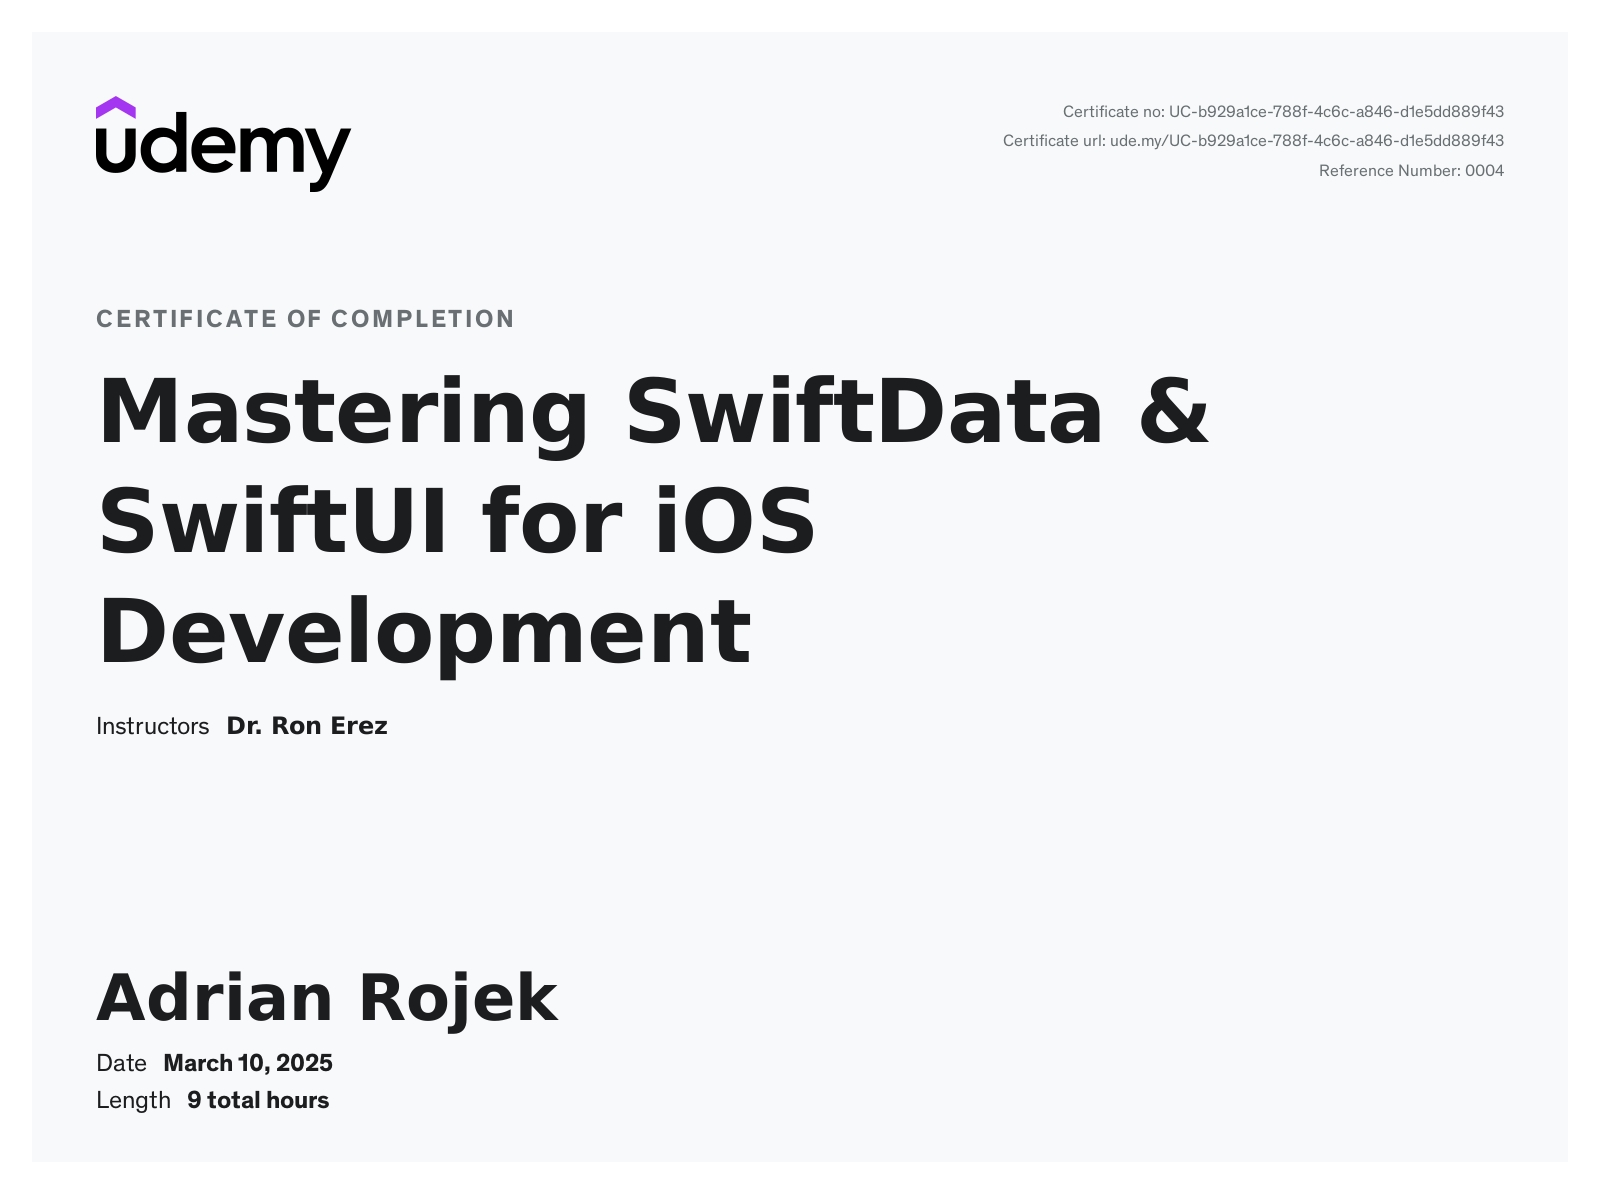
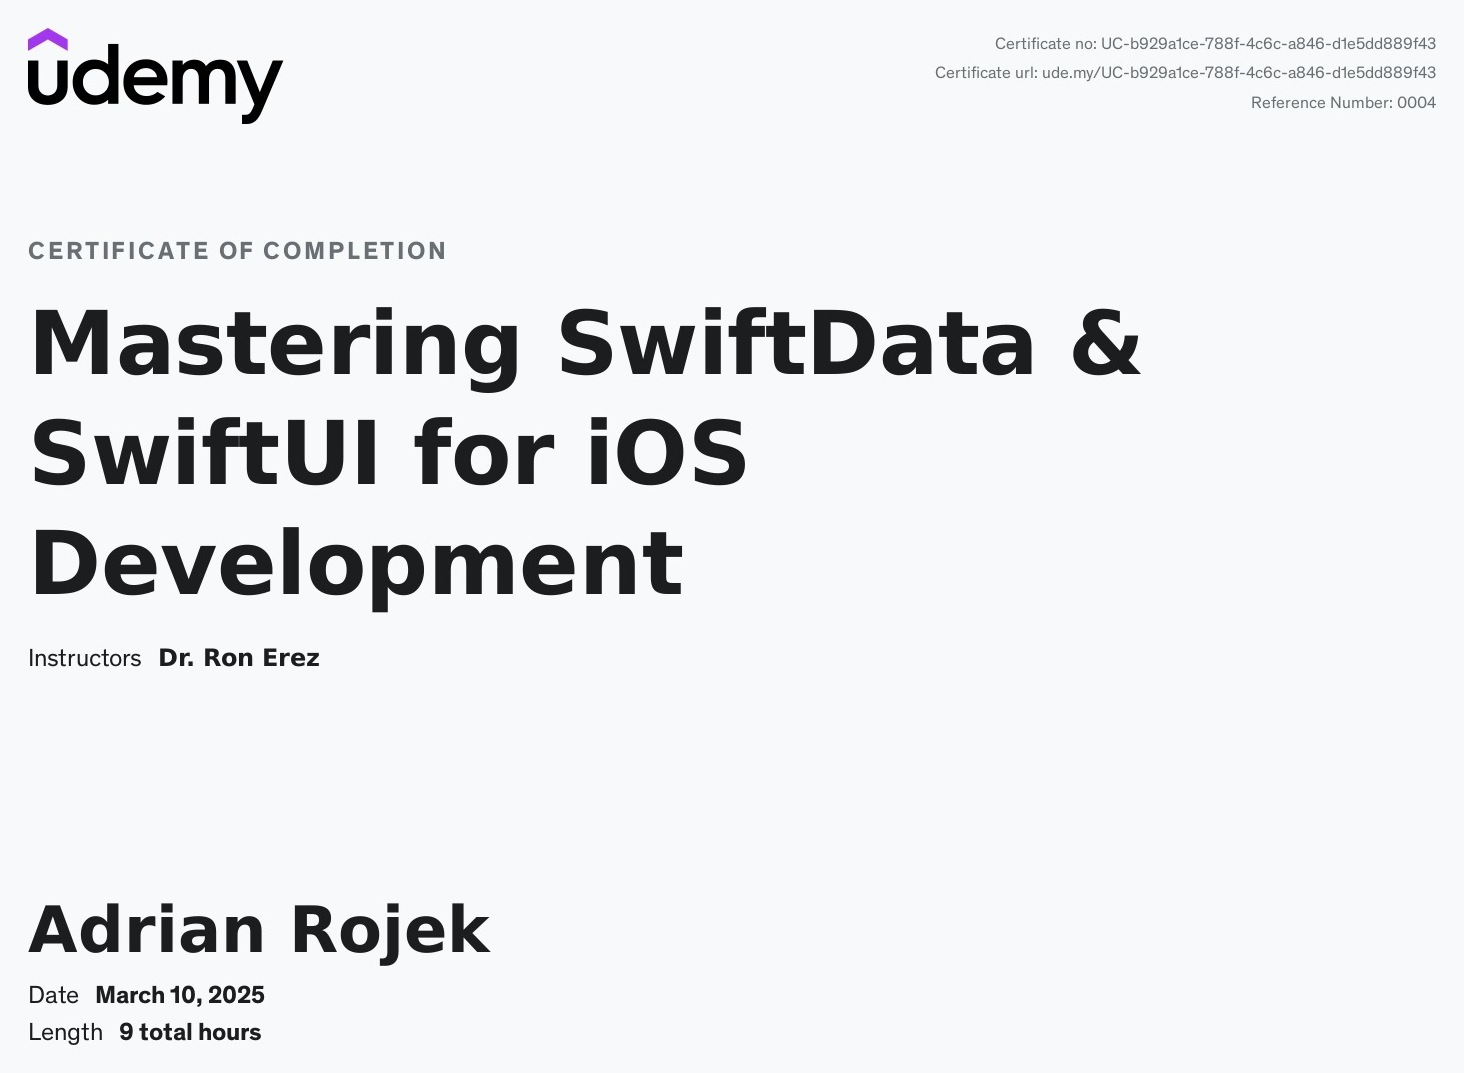
Restore projects and interests, tighten certificate previews
Drop the extra recruiter blurbs, rename the work section back to My Projects, bring back GIF interest tiles and skill bars, and crop Udemy certificates so hover previews fill the frame.

diff --git a/lib/sections/sections.dart b/lib/sections/sections.dart
@@ -173,22 +173,12 @@ class InfoSection extends StatelessWidget {
             c.t('Relevant experience', 'Doświadczenie IT'),
             style: const TextStyle(color: Colors.white, fontSize: 22, fontWeight: FontWeight.w700),
           ),
-          const SizedBox(height: 6),
-          Text(
-            c.t('Last 6 months — the roles hiring teams usually ask about.', 'Ostatnie 6 miesięcy — to, o co pytają rekruterzy.'),
-            style: const TextStyle(color: AppColors.muted, fontSize: 13),
-          ),
           const SizedBox(height: 18),
           for (final role in featured) _TimelineRow(role: role),
           const SizedBox(height: 22),
           Text(
             c.t('Other work', 'Inna praca'),
             style: const TextStyle(color: Colors.white, fontSize: 16, fontWeight: FontWeight.w600),
-          ),
-          const SizedBox(height: 8),
-          Text(
-            c.t('Seasonal and industrial jobs — reliable, on time, used to real workplaces.', 'Prace sezonowe i produkcja — punktualność i środowisko zespołowe.'),
-            style: const TextStyle(color: AppColors.muted, fontSize: 13),
           ),
           const SizedBox(height: 12),
           for (final role in other)
@@ -228,6 +218,7 @@ class InfoSection extends StatelessWidget {
               for (final cert in SiteContent.certificates)
                 PreviewHover(
                   image: cert.image,
+                  landscape: true,
                   child: _Bullet(cert.title, trailing: const Text('📜')),
                 ),
             ],
@@ -379,11 +370,13 @@ class PreviewHover extends StatefulWidget {
     required this.image,
     required this.child,
     this.preferLeft = false,
+    this.landscape = false,
   });
 
   final String image;
   final Widget child;
   final bool preferLeft;
+  final bool landscape;
 
   @override
   State<PreviewHover> createState() => _PreviewHoverState();
@@ -399,8 +392,8 @@ class _PreviewHoverState extends State<PreviewHover> {
     if (box == null || !box.hasSize) return;
     final origin = box.localToGlobal(Offset.zero);
     final size = box.size;
-    const previewW = 320.0;
-    const previewH = 400.0;
+    final previewW = widget.landscape ? 520.0 : 320.0;
+    final previewH = widget.landscape ? 380.0 : 400.0;
     _entry = OverlayEntry(
       builder: (context) {
         final screen = MediaQuery.sizeOf(context);
@@ -415,11 +408,16 @@ class _PreviewHoverState extends State<PreviewHover> {
           height: previewH,
           child: IgnorePointer(
             child: Material(
-              color: const Color(0xFF111111),
+              color: Colors.white,
               elevation: 32,
               borderRadius: BorderRadius.circular(8),
               clipBehavior: Clip.antiAlias,
-              child: Image.asset(widget.image, fit: BoxFit.contain),
+              child: Image.asset(
+                widget.image,
+                fit: BoxFit.cover,
+                alignment: Alignment.center,
+                filterQuality: FilterQuality.medium,
+              ),
             ),
           ),
         );
@@ -474,15 +472,7 @@ class SkillsSection extends StatelessWidget {
           constraints: const BoxConstraints(maxWidth: 1180),
           child: Column(
             children: [
-              _SectionTitle(c.t('Stack', 'Stack')),
-              const SizedBox(height: 8),
-              Text(
-                c.t(
-                  'What I use on internships and school systems — no trivia filters.',
-                  'To, czego używam na praktykach i w projektach — bez zabawek.',
-                ),
-                style: const TextStyle(color: AppColors.muted, fontSize: 14),
-              ),
+              _SectionTitle(c.t('Specializations', 'Specjalizacje')),
               const SizedBox(height: 24),
               LayoutBuilder(
                 builder: (context, constraints) {
@@ -586,12 +576,7 @@ class ProjectsSection extends StatelessWidget {
           constraints: const BoxConstraints(maxWidth: 1180),
           child: Column(
             children: [
-              _SectionTitle(c.t('Selected work', 'Wybrane projekty')),
-              const SizedBox(height: 8),
-              Text(
-                c.t('Tap a card for screenshots and the full write-up.', 'Kliknij kartę, żeby zobaczyć zrzuty i opis.'),
-                style: const TextStyle(color: AppColors.muted, fontSize: 14),
-              ),
+              _SectionTitle(c.t('My Projects', 'Moje projekty')),
               const SizedBox(height: 24),
               LayoutBuilder(
                 builder: (context, constraints) {
@@ -626,53 +611,171 @@ class InterestsSection extends StatelessWidget {
 
   @override
   Widget build(BuildContext context) {
-    final c = PortfolioScope.of(context);
     return Padding(
-      padding: const EdgeInsets.symmetric(horizontal: 20, vertical: 36),
+      padding: const EdgeInsets.symmetric(horizontal: 20, vertical: 64),
       child: Center(
         child: ConstrainedBox(
           constraints: const BoxConstraints(maxWidth: 1180),
-          child: GlassCard(
-            child: Column(
-              crossAxisAlignment: CrossAxisAlignment.start,
+          child: Column(
+            children: [
+              _SectionTitle(
+                PortfolioScope.of(context).t(
+                  'Interests and Soft Skills',
+                  'Zainteresowania i kompetencje miękkie',
+                ),
+              ),
+              const SizedBox(height: 32),
+              LayoutBuilder(
+                builder: (context, constraints) {
+                  final two = constraints.maxWidth > 800;
+                  final left = GlassCard(
+                    child: Column(
+                      children: [
+                        const Text(
+                          '🎯 Interests',
+                          style: TextStyle(color: Colors.white, fontSize: 22, fontWeight: FontWeight.w600),
+                        ),
+                        const SizedBox(height: 20),
+                        for (final item in SiteContent.interests) _InterestTile(item: item),
+                      ],
+                    ),
+                  );
+                  final right = GlassCard(
+                    child: Column(
+                      children: [
+                        const Text(
+                          '🌟 Soft Skills',
+                          style: TextStyle(color: Colors.white, fontSize: 22, fontWeight: FontWeight.w600),
+                        ),
+                        const SizedBox(height: 20),
+                        for (final item in SiteContent.softSkills) _SoftSkillBar(item: item),
+                      ],
+                    ),
+                  );
+                  if (two) {
+                    return Row(
+                      crossAxisAlignment: CrossAxisAlignment.start,
+                      children: [
+                        Expanded(child: left),
+                        const SizedBox(width: 24),
+                        Expanded(child: right),
+                      ],
+                    );
+                  }
+                  return Column(children: [left, const SizedBox(height: 20), right]);
+                },
+              ),
+            ],
+          ),
+        ),
+      ),
+    );
+  }
+}
+
+class _InterestTile extends StatefulWidget {
+  const _InterestTile({required this.item});
+  final InterestItem item;
+
+  @override
+  State<_InterestTile> createState() => _InterestTileState();
+}
+
+class _InterestTileState extends State<_InterestTile> {
+  bool _hovered = false;
+
+  @override
+  Widget build(BuildContext context) {
+    return MouseRegion(
+      onEnter: (_) => setState(() => _hovered = true),
+      onExit: (_) => setState(() => _hovered = false),
+      child: AnimatedContainer(
+        duration: const Duration(milliseconds: 250),
+        transform: Matrix4.translationValues(0, _hovered ? -6 : 0, 0),
+        margin: const EdgeInsets.only(bottom: 12),
+        child: ClipRRect(
+          borderRadius: BorderRadius.circular(12),
+          child: SizedBox(
+            height: 180,
+            width: double.infinity,
+            child: Stack(
+              fit: StackFit.expand,
               children: [
-                Text(
-                  c.t('Outside of code', 'Poza kodem'),
-                  style: const TextStyle(color: Colors.white, fontSize: 22, fontWeight: FontWeight.w700),
+                Image.asset(
+                  widget.item.gifAsset,
+                  fit: BoxFit.cover,
+                  gaplessPlayback: true,
+                  filterQuality: FilterQuality.medium,
                 ),
-                const SizedBox(height: 14),
-                Wrap(
-                  spacing: 8,
-                  runSpacing: 8,
-                  children: [
-                    for (final item in SiteContent.interests)
-                      Chip(
-                        avatar: Icon(item.icon, size: 16, color: Colors.white),
-                        label: Text('${item.title} — ${item.description}'),
-                        labelStyle: const TextStyle(color: Colors.white70, fontSize: 12),
-                        backgroundColor: Colors.white.withValues(alpha: 0.08),
-                        side: const BorderSide(color: Colors.white12),
+                const ColoredBox(color: Color(0x80000000)),
+                Padding(
+                  padding: const EdgeInsets.all(16),
+                  child: Column(
+                    mainAxisAlignment: MainAxisAlignment.center,
+                    children: [
+                      Icon(widget.item.icon, color: Colors.white, size: 26),
+                      const SizedBox(height: 8),
+                      Text(
+                        widget.item.title,
+                        style: const TextStyle(
+                          color: Colors.white,
+                          fontWeight: FontWeight.w600,
+                          fontSize: 16,
+                          shadows: [Shadow(blurRadius: 6, color: Colors.black)],
+                        ),
                       ),
-                  ],
-                ),
-                const SizedBox(height: 18),
-                Wrap(
-                  spacing: 8,
-                  runSpacing: 8,
-                  children: [
-                    for (final item in SiteContent.softSkills)
-                      Chip(
-                        label: Text(item.title),
-                        labelStyle: const TextStyle(color: Colors.white, fontSize: 12),
-                        backgroundColor: AppColors.accent.withValues(alpha: 0.16),
-                        side: BorderSide(color: AppColors.accent.withValues(alpha: 0.35)),
+                      const SizedBox(height: 6),
+                      Text(
+                        widget.item.description,
+                        textAlign: TextAlign.center,
+                        style: const TextStyle(
+                          color: Colors.white,
+                          fontSize: 13,
+                          shadows: [Shadow(blurRadius: 6, color: Colors.black)],
+                        ),
                       ),
-                  ],
+                    ],
+                  ),
                 ),
               ],
             ),
           ),
         ),
+      ),
+    );
+  }
+}
+
+class _SoftSkillBar extends StatelessWidget {
+  const _SoftSkillBar({required this.item});
+  final SoftSkillItem item;
+
+  @override
+  Widget build(BuildContext context) {
+    return Padding(
+      padding: const EdgeInsets.only(bottom: 18),
+      child: Column(
+        children: [
+          Row(
+            children: [
+              Icon(item.icon, color: AppColors.accent, size: 16),
+              const SizedBox(width: 10),
+              Expanded(
+                child: Text(item.title, style: const TextStyle(color: Colors.white)),
+              ),
+            ],
+          ),
+          const SizedBox(height: 8),
+          ClipRRect(
+            borderRadius: BorderRadius.circular(8),
+            child: LinearProgressIndicator(
+              value: item.level,
+              minHeight: 8,
+              backgroundColor: Colors.white.withValues(alpha: 0.12),
+              color: AppColors.accent,
+            ),
+          ),
+        ],
       ),
     );
   }
